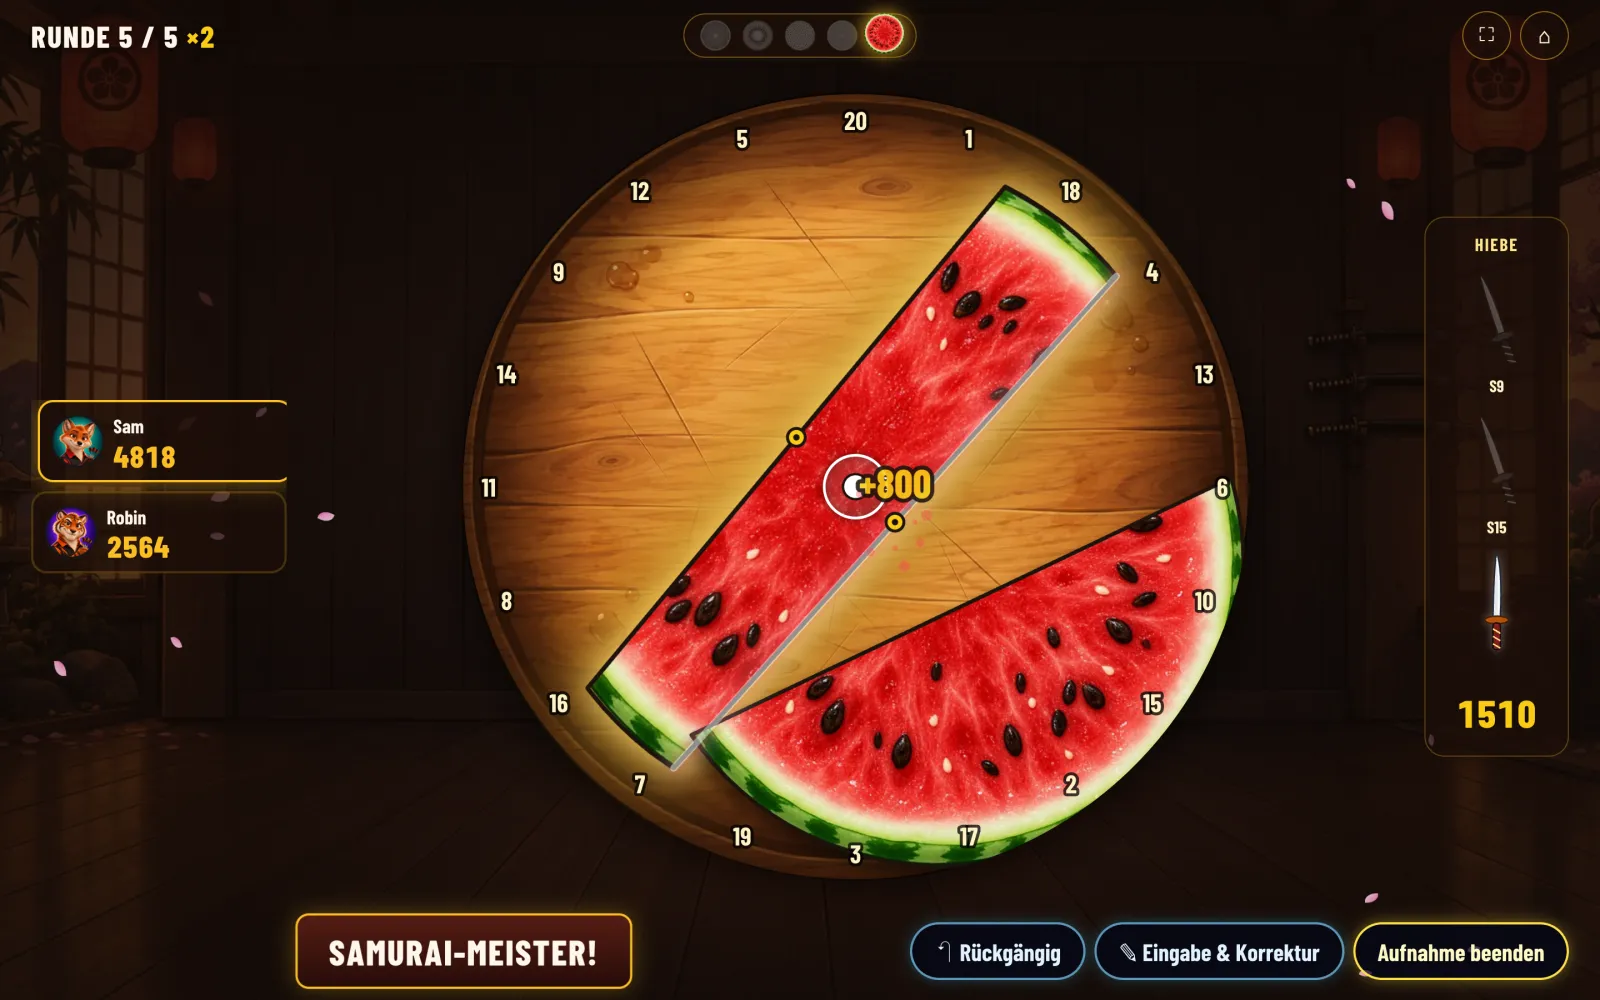
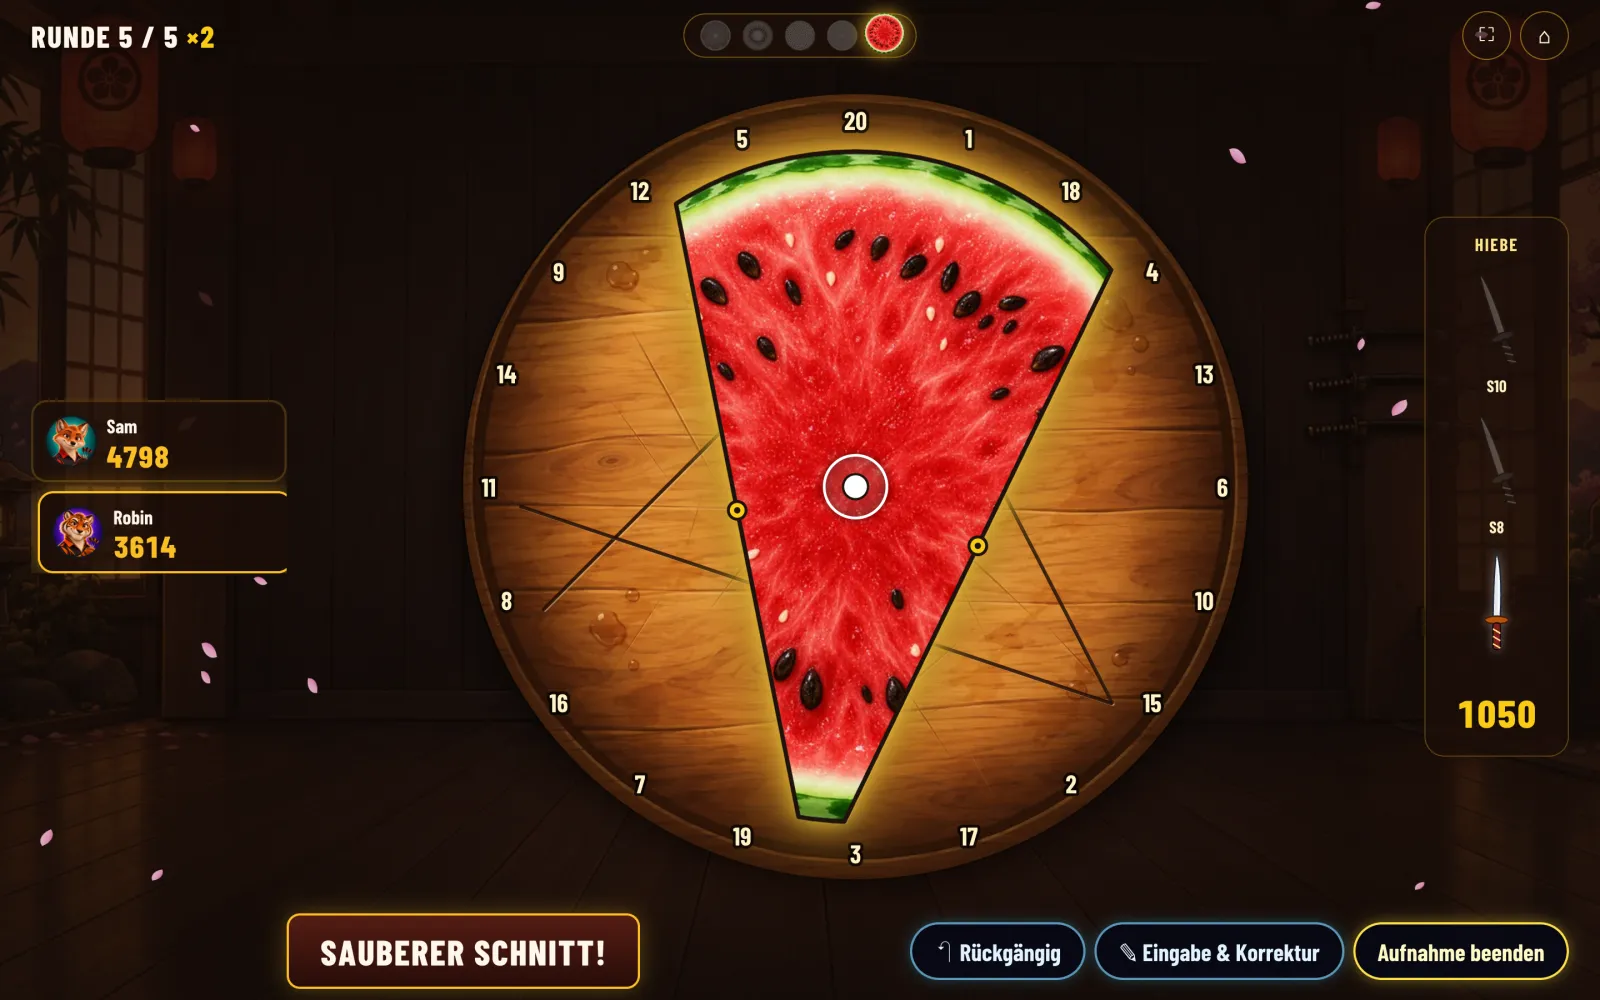
Project page: Fruit Samurai screenshots with grooves and dart holes in the board

diff --git a/index.html b/index.html
@@ -515,10 +515,10 @@
       </div>
       <div class="arcade-card wide reveal">
         <div class="pair">
-          <img src="img/fruit.webp" alt="Fruit Samurai: an orange cut in two on a wooden board in a dojo, swords as darts" width="1600" height="1000" loading="lazy">
-          <img src="img/fruit-finale.webp" alt="Fruit Samurai finale: a watermelon sliced through the bull, double points" width="1600" height="1000" loading="lazy">
+          <img src="img/fruit.webp" alt="Fruit Samurai: an orange cut down to a triangle, the cuts left as grooves in the wooden board" width="1600" height="1000" loading="lazy">
+          <img src="img/fruit-finale.webp" alt="Fruit Samurai finale: a watermelon wedge left after several cuts, double points" width="1600" height="1000" loading="lazy">
         </div>
-        <div><h3>Fruit Samurai</h3><p>Every turn a fresh fruit covers the board – orange, kiwi, dragon fruit, lime. Each dart is a sword cut straight through where it lands, across the line to the bull; the piece on the dart's side flies off and scores by its size. The closer to the bull, the bigger the piece, the bullseye takes everything that is left. The finale is a big watermelon that counts double – all in a dojo with falling cherry blossoms.</p></div>
+        <div><h3>Fruit Samurai</h3><p>Every turn a fresh fruit covers the board – orange, kiwi, dragon fruit, lime. Each dart is a sword cut straight through where it lands, across the line to the bull; the piece on the dart's side flies off and scores by its size. The closer to the bull, the bigger the piece, the bullseye takes everything that is left. Every cut leaves a groove and every dart a hole in the cutting board for the whole round. The finale is a big watermelon that counts double – all in a dojo with falling cherry blossoms.</p></div>
       </div>
     </div>
   </div>
@@ -716,10 +716,10 @@
     'One monster at a time stands on the board of a night graveyard. A dart near its middle is a headshot, a graze costs it a life, a miss makes it grow. Monsters breathe, hop and flap as GPU puppets; bullet holes, sparks and screen shake on every hit.': 'Auf der Scheibe eines nächtlichen Friedhofs steht immer genau ein Monster. Ein Dart nah an der Mitte ist ein Kopfschuss, ein Streifschuss kostet ein Leben, ein Fehlwurf lässt es wachsen. Die Monster atmen, hüpfen und flattern als GPU-Puppen; Einschusslöcher, Funken und Wackeln bei jedem Treffer.',
     'Regular X01 rules in full screen: remaining scores drain like batteries, darts appear on a neon board at their real position, every dart strikes lightning and a bust shorts the circuit. Corrections open in a popup.': 'Normale X01-Regeln im Vollbild: Der Rest leert sich wie eine Batterie, Darts erscheinen an ihrer echten Position auf einer Neon-Scheibe, jeder Dart lässt einen Blitz einschlagen, ein Bust sorgt für Kurzschluss. Korrekturen öffnen sich in einem Popup.',
     'Fruit Samurai': 'Fruit Samurai',
-    "Every turn a fresh fruit covers the board – orange, kiwi, dragon fruit, lime. Each dart is a sword cut straight through where it lands, across the line to the bull; the piece on the dart's side flies off and scores by its size. The closer to the bull, the bigger the piece, the bullseye takes everything that is left. The finale is a big watermelon that counts double – all in a dojo with falling cherry blossoms.": 'In jeder Aufnahme liegt eine frische Frucht auf der Scheibe – Orange, Kiwi, Drachenfrucht, Limette. Jeder Dart ist ein Schwerthieb genau dort, wo er steckt, quer zur Linie zum Bull; das Stück auf der Seite des Darts fliegt weg und zählt nach seiner Größe. Je näher am Bull, desto größer das Stück, das Bullseye nimmt alles, was übrig ist. Im Finale wartet eine große Wassermelone, die doppelt zählt – alles in einem Dojo mit fallenden Kirschblüten.',
+    "Every turn a fresh fruit covers the board – orange, kiwi, dragon fruit, lime. Each dart is a sword cut straight through where it lands, across the line to the bull; the piece on the dart's side flies off and scores by its size. The closer to the bull, the bigger the piece, the bullseye takes everything that is left. Every cut leaves a groove and every dart a hole in the cutting board for the whole round. The finale is a big watermelon that counts double – all in a dojo with falling cherry blossoms.": 'In jeder Aufnahme liegt eine frische Frucht auf der Scheibe – Orange, Kiwi, Drachenfrucht, Limette. Jeder Dart ist ein Schwerthieb genau dort, wo er steckt, quer zur Linie zum Bull; das Stück auf der Seite des Darts fliegt weg und zählt nach seiner Größe. Je näher am Bull, desto größer das Stück, das Bullseye nimmt alles, was übrig ist. Jeder Schnitt hinterlässt eine Kerbe und jeder Dart ein Loch im Schneidebrett, die ganze Runde lang. Im Finale wartet eine große Wassermelone, die doppelt zählt – alles in einem Dojo mit fallenden Kirschblüten.',
     // image descriptions
-    'Fruit Samurai: an orange cut in two on a wooden board in a dojo, swords as darts': 'Fruit Samurai: eine halbierte Orange auf einem Holzbrett im Dojo, Schwerter als Darts',
-    'Fruit Samurai finale: a watermelon sliced through the bull, double points': 'Fruit-Samurai-Finale: eine Wassermelone, durch das Bull geschnitten, doppelte Punkte',
+    'Fruit Samurai: an orange cut down to a triangle, the cuts left as grooves in the wooden board': 'Fruit Samurai: eine auf ein Dreieck zugeschnittene Orange, die Schnitte bleiben als Kerben im Holzbrett',
+    'Fruit Samurai finale: a watermelon wedge left after several cuts, double points': 'Fruit-Samurai-Finale: ein Wassermelonen-Keil nach mehreren Schnitten, doppelte Punkte',
     'Versus screen: two players face each other in their colours with a slamming VS': 'Versus-Bildschirm: Zwei Spieler stehen sich in ihren Farben gegenüber, dazwischen ein wuchtiges VS',
     'Line-up: player 2 of 4 is introduced on a coloured band': 'Aufstellung: Spieler 2 von 4 wird auf einem farbigen Band vorgestellt',
     'Up next: the next player with the remaining score over the blurred game': 'Am Zug: der nächste Spieler mit Restpunkten über dem unscharfen Spiel',
